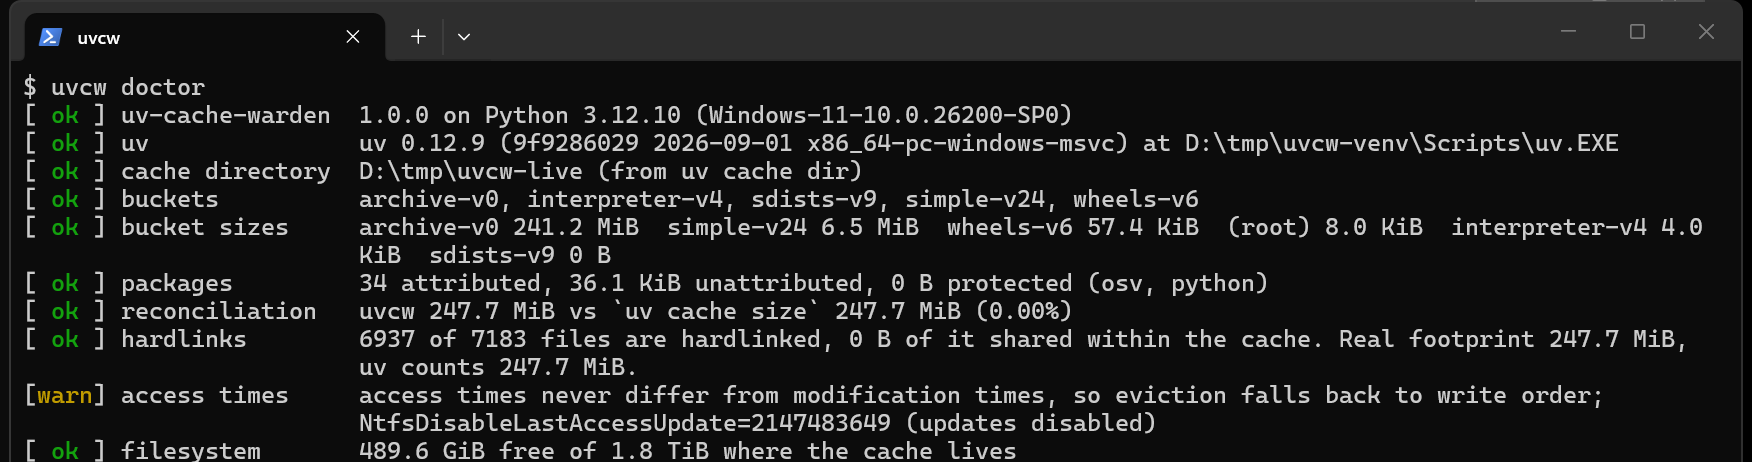
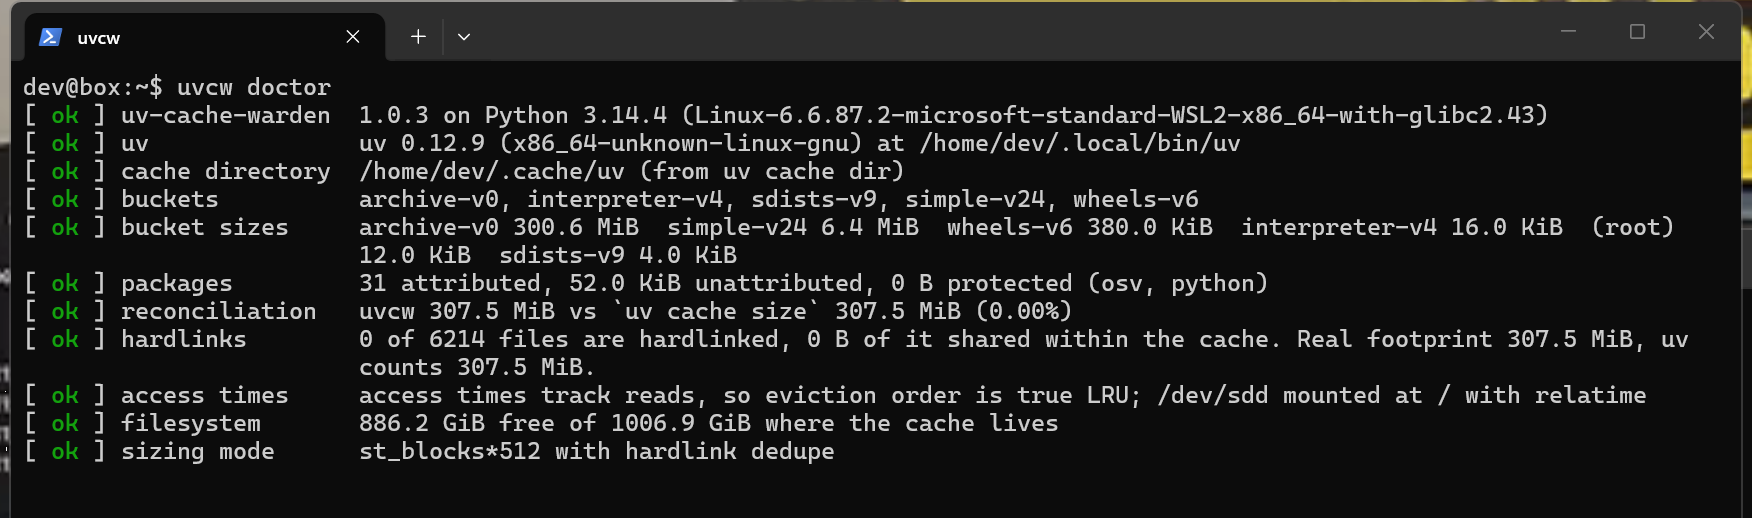
Capture the README demo on Linux, release 1.0.3
The examples and screenshots were taken on a Windows scratch directory, so every
path in them read like a test rig rather than a cache. They are now captured at
the documented default location on Linux, which is where most of the reports in
astral-sh/uv#5731 come from, and they exercise the st_blocks*512 sizing and
relatime access-time branches instead of the NTFS ones.

Docs only, but PyPI renders the README as of upload, so it needs a release.

diff --git a/src/uv_cache_warden/__init__.py b/src/uv_cache_warden/__init__.py
@@ -1,5 +1,5 @@
 """Enforce a size budget on Astral uv's package cache."""
 
-__version__ = "1.0.2"
+__version__ = "1.0.3"
 
 __all__ = ["__version__"]

diff --git a/README.md b/README.md
@@ -19,7 +19,7 @@ uv's docs say it is [never safe to modify the cache directly](https://docs.astra
 ```console
 $ uv tool install uv-cache-warden
 $ uvcw --version
-uvcw 1.0.2
+uvcw 1.0.3
 ```
 
 Or run it without installing:
@@ -37,37 +37,34 @@ $ uvx uv-cache-warden report
 ```console
 $ uvcw report --top 8
 PACKAGE       VERS       SIZE  SHARE  LAST USED
-scipy            1  106.0 MiB    43%  21 minutes ago
-numpy            1   41.1 MiB    17%  3 days ago
-pandas           1   34.6 MiB    14%  31 days ago
-matplotlib       1   22.9 MiB     9%  14 days ago
-pillow           1   14.8 MiB     6%  14 days ago
-fonttools        1   12.1 MiB     5%  31 days ago
-pygments         1    4.5 MiB     2%  47 days ago
-pytest           1    1.4 MiB    <1%  3 days ago
-... 26 more          10.2 MiB     4%
-unattributed         36.1 KiB    <1%
-TOTAL               247.7 MiB         (uv cache size: 247.7 MiB)
-
-note: Access times on this filesystem never differ from modification times (noatime?), so LAST USED
-  reflects when an entry was written.
+scipy            1  111.0 MiB    36%  just now
+numpy            1   58.2 MiB    19%  11 days ago
+pandas           1   42.2 MiB    14%  19 days ago
+matplotlib       1   28.9 MiB     9%  11 days ago
+fonttools        1   23.3 MiB     8%  2 days ago
+pillow           1   19.8 MiB     6%  19 days ago
+kiwisolver       1    5.9 MiB     2%  2 days ago
+pygments         1    5.1 MiB     2%  44 days ago
+... 23 more          12.9 MiB     4%
+unattributed         52.0 KiB    <1%
+TOTAL               307.5 MiB         (uv cache size: 307.5 MiB)
 ```
 
-On a terminal the table stops at 20 rows so the header stays on screen. `--all` shows everything, and piped output is never truncated. That closing note is a real filesystem fact, not boilerplate: Windows disables NTFS last-access updates by default, so on this machine LRU falls back to write order, and `uvcw doctor` names the registry value responsible.
+On a terminal the table stops at 20 rows so the header stays on screen. `--all` shows everything, and piped output is never truncated.
 
 `--sort age` reorders the table coldest-first, which is the order `gc` evicts in, so it previews what a budget would take:
 
 ```console
 $ uvcw report --sort age --top 5
-PACKAGE          VERS       SIZE  SHARE  LAST USED
-colorama            1  108.8 KiB    <1%  63 days ago
-python-dateutil     1  451.2 KiB    <1%  63 days ago
-requests            1  298.8 KiB    <1%  63 days ago
-httpx               1  330.7 KiB    <1%  47 days ago
-pygments            1    4.5 MiB     2%  47 days ago
-... 29 more            242.0 MiB    98%
-unattributed            36.1 KiB    <1%
-TOTAL                  247.7 MiB         (uv cache size: 247.7 MiB)
+PACKAGE       VERS       SIZE  SHARE  LAST USED
+anyio            1  684.0 KiB    <1%  63 days ago
+httpcore         1  432.0 KiB    <1%  44 days ago
+pygments         1    5.1 MiB     2%  44 days ago
+markupsafe       1  348.0 KiB    <1%  28 days ago
+pandas           1   42.2 MiB    14%  19 days ago
+... 26 more         258.7 MiB    84%
+unattributed         52.0 KiB    <1%
+TOTAL               307.5 MiB         (uv cache size: 307.5 MiB)
 ```
 
 `--json` gives the same data with per-package `disk_bytes`, `physical_bytes`, `reclaim_bytes`, `age_seconds`, a bucket inventory and the reconciliation delta against `uv cache size`. `--json-file PATH` writes that alongside the table instead of replacing it, which is what you want in a CI log.
@@ -79,65 +76,66 @@ TOTAL                  247.7 MiB         (uv cache size: 247.7 MiB)
 A dry run changes nothing and shows exactly what the real run would do:
 
 ```console
-$ uvcw gc --max-size 150MB --min-age 7d --dry-run
-cache D:\tmp\uvcw-live  budget 143.1 MiB (--max-size)  currently 247.7 MiB
-  489.6 GiB free on this filesystem
-note: access times are not tracked on this filesystem, so eviction order is by write time rather
-  than true last use.
+$ uvcw gc --max-size 200MB --min-age 7d --dry-run
+cache /home/dev/.cache/uv  budget 190.7 MiB (--max-size)  currently 307.5 MiB
+  886.2 GiB free on this filesystem
 
-would evict (18 of 34 packages):
-  colorama            108.8 KiB  63 days ago
-  python-dateutil     451.2 KiB  63 days ago
-  requests            298.8 KiB  63 days ago
-  ...
-  anyio               557.3 KiB  9 days ago
-  httpcore            329.5 KiB  9 days ago
+would evict (11 of 31 packages):
+  anyio       684.0 KiB  63 days ago
+  httpcore    432.0 KiB  44 days ago
+  pygments      5.1 MiB  44 days ago
+  markupsafe  348.0 KiB  28 days ago
+  pandas       42.2 MiB  19 days ago
+  pillow       19.8 MiB  19 days ago
+  pyparsing   588.0 KiB  19 days ago
+  certifi     344.0 KiB  11 days ago
+  matplotlib   28.9 MiB  11 days ago
+  mdurl        80.0 KiB  11 days ago
+  numpy        58.2 MiB  11 days ago
 
-dry run: nothing was removed. Projected 247.7 MiB -> 153.0 MiB (budget 143.1 MiB).
-projected: still over budget by 10.0 MiB.
-  153.0 MiB held back by packages used within --min-age
-  36.1 KiB is unattributed (no package name to pass to `uv cache clean`); only `uv cache prune` can touch it
+dry run: nothing was removed. Projected 307.5 MiB -> 150.8 MiB (budget 190.7 MiB).
 ```
 
-That plan falls short of the budget, and the run says so up front rather than leaving you to compare the two numbers. `--fail-over` turns it into exit 2. Relaxing `--min-age` lets it through:
+Drop `--dry-run` and it evicts that list oldest-first, prunes once, then re-measures. The `Removed ...` and `Pruning cache at:` lines come from uv itself, streamed through as they happen so a wait on the cache lock is visible while it is still happening:
 
 ```console
-$ uvcw gc --max-size 150MB --min-age 3d --fail-over
-Removed 22 files (100.8KiB)
-Removed 30 files (447.2KiB)
+$ uvcw gc --max-size 200MB --min-age 7d --fail-over
+Removed 57 files (648.0KiB)
+Removed 41 files (400.0KiB)
 ...
-Removed 1066 files (40.9MiB)
-Pruning cache at: D:\tmp\uvcw-live
+Removed 931 files (57.7MiB)
+Pruning cache at: .cache/uv
 No unused entries found
-cache D:\tmp\uvcw-live  budget 143.1 MiB (--max-size)  currently 247.7 MiB
-  489.6 GiB free on this filesystem
+cache /home/dev/.cache/uv  budget 190.7 MiB (--max-size)  currently 307.5 MiB
+  886.2 GiB free on this filesystem
 
-evicted (20 of 34 packages):
-  colorama            108.8 KiB  63 days ago
+evicted (11 of 31 packages):
+  anyio       684.0 KiB  63 days ago
   ...
-  numpy                41.1 MiB  3 days ago
+  numpy        58.2 MiB  11 days ago
 
-reclaimed 136.3 MiB; cache now 111.4 MiB (budget 143.1 MiB); evicted 20 packages
+reclaimed 156.7 MiB; cache now 150.8 MiB (budget 190.7 MiB); evicted 11 packages
 under budget.
 ```
 
-The `Removed ...` and `Pruning cache at:` lines come from uv itself, streamed through as they happen so a wait on the cache lock is visible while it is still happening.
+`reclaimed` is always measured with `uv cache size` afterwards, never projected. If a plan cannot reach the budget, the run says so and names the rule that held the bytes back, on a dry run too; `--fail-over` turns that into exit 2.
 
 Already under budget is a no-op that exits 0:
 
 ```console
-$ uvcw gc --max-size 10GB
-cache D:\tmp\uvcw-live  budget 9.3 GiB (--max-size)  currently 111.4 MiB
-  489.6 GiB free on this filesystem
-Already under budget (111.4 MiB <= 9.3 GiB). Nothing to do.
+$ uvcw gc --max-size 5GB
+cache /home/dev/.cache/uv  budget 4.7 GiB (--max-size)  currently 150.8 MiB
+  886.4 GiB free on this filesystem
+Already under budget (150.8 MiB <= 4.7 GiB). Nothing to do.
 ```
 
-`--min-free` budgets against the filesystem rather than the cache, which is what a runner that keeps filling its disk actually wants. To leave 500 GB free on a disk with 489.6 GiB spare, the cache has to give back the shortfall:
+`--min-free` budgets against the filesystem rather than the cache, which is what a runner that keeps filling its disk actually wants. The budget becomes whatever the cache has to give back to leave that much free, so on a disk with room to spare it is a no-op:
 
 ```console
-$ uvcw gc --min-free 500GB --dry-run
-cache D:\tmp\uvcw-live  budget 104.7 MiB (--min-free)  currently 247.7 MiB
-  489.6 GiB free on this filesystem
+$ uvcw gc --min-free 50GB
+cache /home/dev/.cache/uv  budget 150.8 MiB (--min-free)  currently 150.8 MiB
+  886.4 GiB free on this filesystem
+Already under budget (150.8 MiB <= 150.8 MiB). Nothing to do.
 ```
 
 Give both and the tighter one wins; the header always names which constraint is binding. Even with nothing evictable, `gc` still runs `uv cache prune` once when the cache is over budget, because unreferenced archive bytes are reclaimable only there. That is the [#16551](https://github.com/astral-sh/uv/issues/16551) case.
@@ -148,22 +146,24 @@ Give both and the tighter one wins; the header always names which constraint is 
 
 ```console
 $ uvcw doctor
-[ ok ] uv-cache-warden  1.0.2 on Python 3.12.10 (Windows-11-10.0.26200-SP0)
-[ ok ] uv               uv 0.12.9 (9f9286029 2026-09-01 x86_64-pc-windows-msvc) at
-                        D:\tmp\uvcw-venv\Scripts\uv.EXE
-[ ok ] cache directory  D:\tmp\uvcw-live (from uv cache dir)
+[ ok ] uv-cache-warden  1.0.3 on Python 3.14.4
+                        (Linux-6.6.87.2-microsoft-standard-WSL2-x86_64-with-glibc2.43)
+[ ok ] uv               uv 0.12.9 (x86_64-unknown-linux-gnu) at /home/dev/.local/bin/uv
+[ ok ] cache directory  /home/dev/.cache/uv (from uv cache dir)
 [ ok ] buckets          archive-v0, interpreter-v4, sdists-v9, simple-v24, wheels-v6
-[ ok ] bucket sizes     archive-v0 241.2 MiB  simple-v24 6.5 MiB  wheels-v6 57.4 KiB  (root) 8.0 KiB
-                        interpreter-v4 4.0 KiB  sdists-v9 0 B
-[ ok ] packages         34 attributed, 36.1 KiB unattributed, 0 B protected (osv, python)
-[ ok ] reconciliation   uvcw 247.7 MiB vs `uv cache size` 247.7 MiB (0.00%)
-[ ok ] hardlinks        6937 of 7183 files are hardlinked, 0 B of it shared within the cache. Real
-                        footprint 247.7 MiB, uv counts 247.7 MiB.
-[warn] access times     access times never differ from modification times, so eviction falls back to
-                        write order; NtfsDisableLastAccessUpdate=2147483649 (updates disabled)
-[ ok ] filesystem       489.6 GiB free of 1.8 TiB where the cache lives
-[ ok ] sizing mode      st_size, uv does not dedupe here
+[ ok ] bucket sizes     archive-v0 300.6 MiB  simple-v24 6.4 MiB  wheels-v6 380.0 KiB
+                        interpreter-v4 16.0 KiB  (root) 12.0 KiB  sdists-v9 4.0 KiB
+[ ok ] packages         31 attributed, 52.0 KiB unattributed, 0 B protected (osv, python)
+[ ok ] reconciliation   uvcw 307.5 MiB vs `uv cache size` 307.5 MiB (0.00%)
+[ ok ] hardlinks        0 of 6214 files are hardlinked, 0 B of it shared within the cache. Real
+                        footprint 307.5 MiB, uv counts 307.5 MiB.
+[ ok ] access times     access times track reads, so eviction order is true LRU; /dev/sdd mounted at
+                        / with relatime
+[ ok ] filesystem       886.2 GiB free of 1006.9 GiB where the cache lives
+[ ok ] sizing mode      st_blocks*512 with hardlink dedupe
 ```
+
+Two of those checks are worth knowing about before you trust a budget. **reconciliation** compares our total against `uv cache size`; they should agree exactly. **access times** says whether LRU is real here: on Windows, NTFS last-access updates are off by default, and plenty of Linux mounts are `noatime`, in which case eviction falls back to write order and `uvcw gc` says so in its header too.
 
 `doctor` exits 1 if any check fails, so it works as a preflight step.
 

diff --git a/CHANGELOG.md b/CHANGELOG.md
@@ -4,6 +4,16 @@ All notable changes to this project are documented here. The format follows
 [Keep a Changelog](https://keepachangelog.com/en/1.1.0/) and the project uses
 [semantic versioning](https://semver.org/spec/v2.0.0.html).
 
+## [1.0.3] - 2026-09-02
+
+### Changed
+
+- Documentation only, no code change. The README's examples and screenshots were captured on a
+  Windows scratch directory, so every path in them read like a test rig. They are now taken on
+  Linux at the documented default cache location, which is where most of the reports in
+  astral-sh/uv#5731 come from, and they show the `st_blocks*512` sizing and `relatime`
+  access-time branches rather than the NTFS ones.
+
 ## [1.0.2] - 2026-09-02
 
 ### Changed
@@ -78,6 +88,7 @@ First release.
   previously printed the projection and stopped, which read as success even while `--fail-over`
   was exiting 2.
 
+[1.0.3]: https://github.com/Booyaka101/uv-cache-warden/releases/tag/v1.0.3
 [1.0.2]: https://github.com/Booyaka101/uv-cache-warden/releases/tag/v1.0.2
 [1.0.1]: https://github.com/Booyaka101/uv-cache-warden/releases/tag/v1.0.1
 [1.0.0]: https://github.com/Booyaka101/uv-cache-warden/releases/tag/v1.0.0
